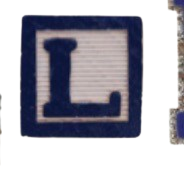
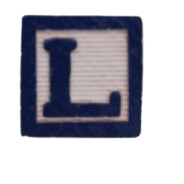
install luna paint, edit letters

Changed region(s): [[0.8967, 0.0, 1.0, 0.788], [0.0, 0.6522, 0.0272, 0.7337], [0.0, 0.5163, 0.0272, 0.5978]]

diff --git a/index.html b/index.html
@@ -214,6 +214,37 @@
         h3 {
             display: block;
         }
+
+
+        /*anchors the sticker*/
+         .parent-container {
+         position: relative; 
+         }
+
+   .sticker1 {
+   position: absolute;
+   top: 0;
+   right: 0; 
+   width: 15%;
+   max-width: 80px;
+   min-width: 40px;
+   height: auto; 
+   pointer-events: none; 
+   }
+
+   .sticker2 {
+   position: absolute;
+   bottom: 0;
+   left: 0;
+   width: 15%;
+   max-width: 80px;
+   min-width: 40px;
+   height: auto; 
+   pointer-events: none;
+   }
+
+
+
     </style>
 </head>
 <body>
@@ -332,6 +363,8 @@
             <p>Please contact us for more information.</p>
          </div>
       </div>
+
+      <!--page nav script-->
       <script>
          function changePage(pageId) {
              const pages = document.querySelectorAll('.page');
